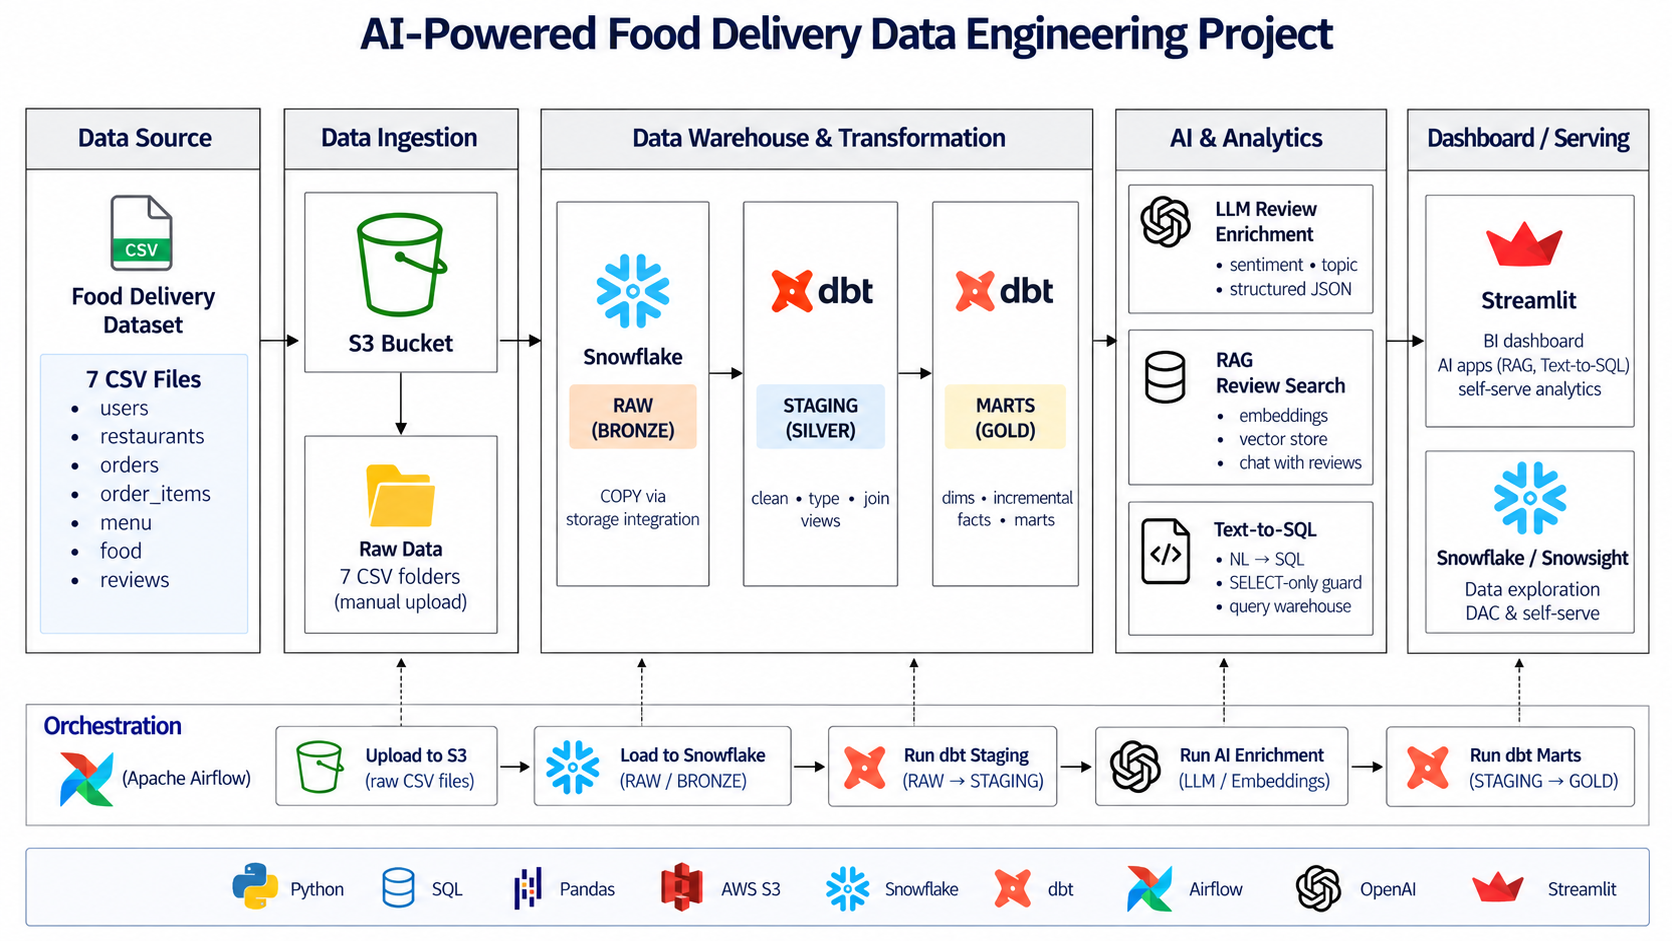
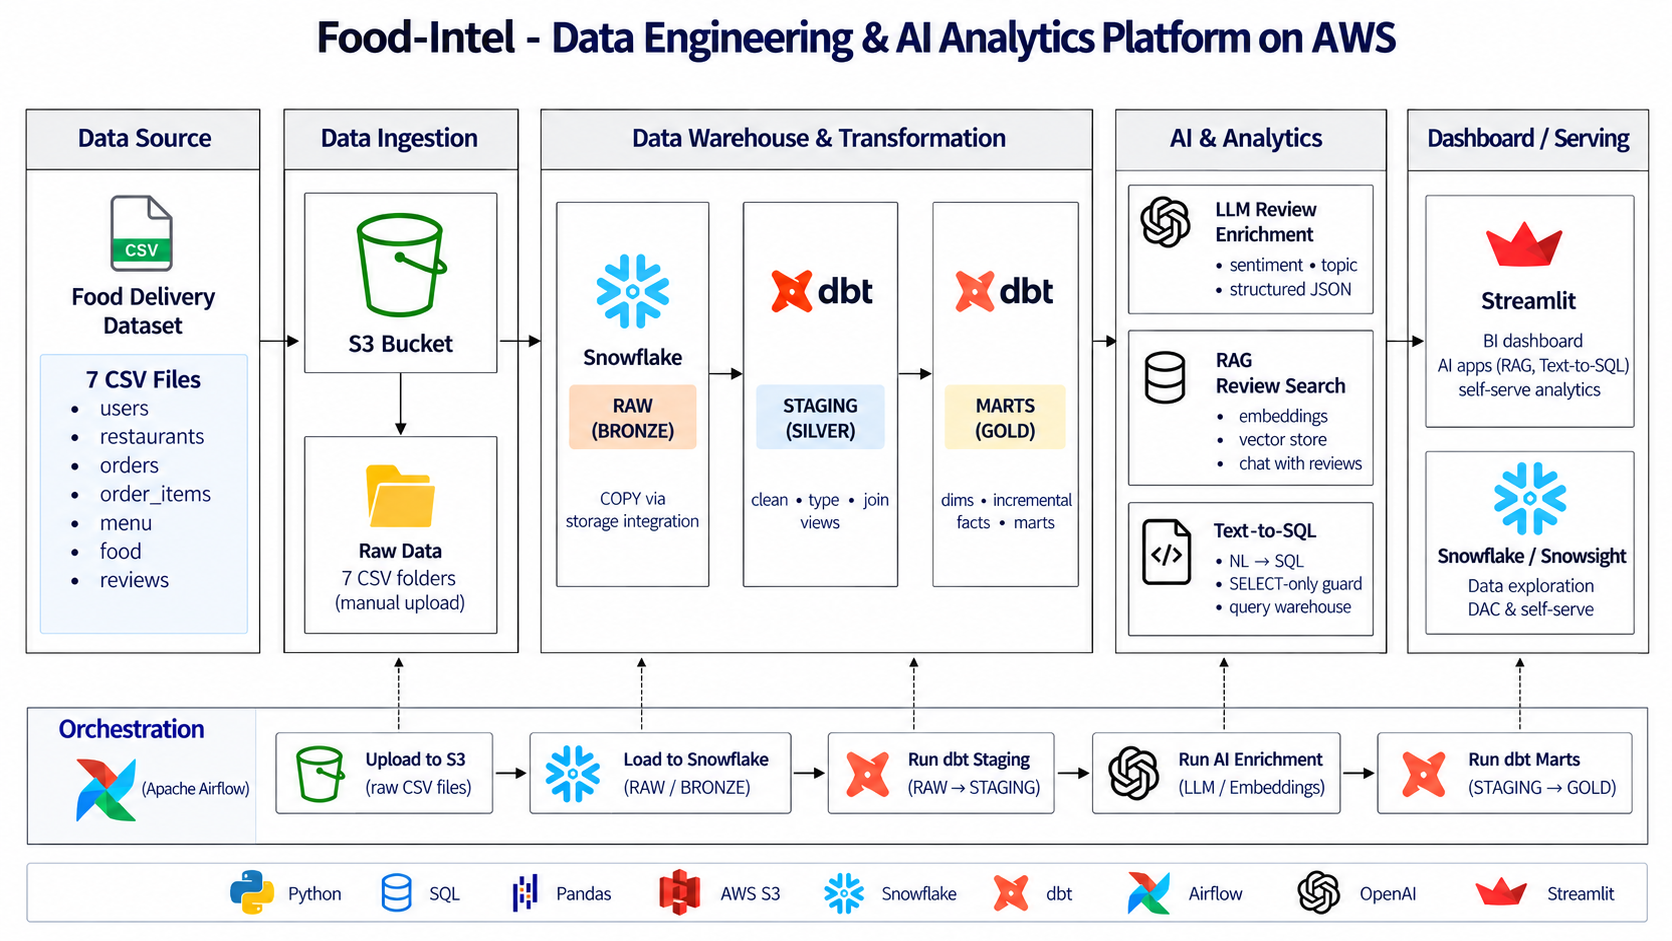
Updated Architecture diagram

diff --git a/README.md b/README.md
@@ -1,0 +1,315 @@
+# Food-Intel — Data Engineering & AI Analytics Platform
+
+> **From raw CSVs to an AI-powered warehouse** — a complete modern data stack built on a food-delivery dataset.
+
+![Architecture](Doc/Architecture.png)
+<!--  
+[![Python](https://img.shields.io/badge/Python-3.11+-blue?logo=python)](https://python.org)
+[![dbt](https://img.shields.io/badge/dbt-Snowflake-orange?logo=dbt)](https://getdbt.com)
+[![Airflow](https://img.shields.io/badge/Airflow-3.0-darkgreen?logo=apacheairflow)](https://airflow.apache.org)
+[![Snowflake](https://img.shields.io/badge/Snowflake-Data%20Warehouse-29B5E8?logo=snowflake)](https://snowflake.com)
+[![OpenAI](https://img.shields.io/badge/OpenAI-GPT--4o--mini-412991?logo=openai)](https://openai.com)
+[![Streamlit](https://img.shields.io/badge/Streamlit-Apps-FF4B4B?logo=streamlit)](https://streamlit.io)
+-->
+---
+
+## What This Project Builds
+
+An end-to-end batch data pipeline that takes 7 raw CSV files through a full modern data stack:
+
+```
+Food-Delivery CSVs → Amazon S3 → Snowflake (Bronze→Silver→Gold) → dbt → Airflow → AI Layer → Streamlit
+```
+
+**Three AI capabilities on top of the warehouse:**
+- 🤖 **LLM Enrichment** — GPT-4o-mini classifies every review into sentiment + topic + urgency flag
+- 💬 **RAG Chat** — Ask questions, get answers grounded in real customer reviews
+- 🔍 **Text-to-SQL** — Type plain English, get live Snowflake query results
+
+---
+
+## Tech Stack
+
+| Layer | Tool |
+|-------|------|
+| Storage | Amazon S3 (ap-south-1) |
+| Warehouse | Snowflake |
+| Transformation | dbt (dbt-snowflake) |
+| Orchestration | Apache Airflow 3 on Docker |
+| AI / LLM | OpenAI GPT-4o-mini + text-embedding-3-small |
+| Serving | Streamlit |
+| Language | Python 3.11+ |
+
+---
+
+## Dataset
+
+| Table | Description | Volume |
+|-------|-------------|--------|
+| orders | Core fact — status, amounts, times | 10M rows |
+| order_items | Line items per order | 23M rows |
+| reviews | Free-text comments + ratings | 300K rows |
+| restaurants | Who sells — cuisine, city, rating | Dimension |
+| users | Who orders — city, signup date | Dimension |
+| food | Menu items — veg/non-veg | Dimension |
+| menu | Restaurant × food × price | Dimension |
+
+> 📦 Dataset is not committed to this repo (2.3 GB). Download from the [Google Drive folder](#) and place files under `Data/`.
+
+---
+
+## Architecture
+
+### Medallion Layers
+
+```
+RAW (Bronze)     — All columns as TEXT, append-only, tolerant COPY INTO
+STAGING (Silver) — Typed + cleaned dbt views (TRY_TO_DECIMAL, NULLIF, INITCAP)
+MARTS (Gold)     — Dims, incremental facts, aggregate marts
+AI               — LLM-enriched review table (REVIEW_ENRICHED)
+```
+
+### Airflow DAG — 4 Tasks
+
+```
+reload_raw → dbt_build_core → enrich_reviews → dbt_build_ai
+```
+
+| Task | What it does |
+|------|-------------|
+| `reload_raw` | COPY INTO all 7 RAW tables from S3 |
+| `dbt_build_core` | Build + test all models except AI tag |
+| `enrich_reviews` | Call GPT-4o-mini on un-enriched reviews |
+| `dbt_build_ai` | Build AI marts on enriched data |
+
+---
+
+## Repository Structure
+
+```
+food-intel-data-platform/
+├── dags/
+│   └── zomato_batch.py          # Airflow DAG (4 tasks, daily)
+├── dbt_project/
+│   ├── models/
+│   │   ├── staging/             # 7 staging views (Silver)
+│   │   ├── marts/
+│   │   │   ├── dimensions/      # dim_restaurants, dim_users, dim_food, dim_date
+│   │   │   ├── facts/           # fct_orders (incremental), fct_order_items
+│   │   │   └── aggregates/      # 6 business marts
+│   │   └── ai/                  # mart_review_insights (tag:ai)
+│   └── snapshots/               # SCD2 on restaurant ratings
+├── ai/
+│   ├── enrich_reviews.py        # LLM enrichment → REVIEW_ENRICHED
+│   ├── rag_chat.py              # RAG chat with reviews
+│   └── text_to_sql.py           # Natural language → Snowflake SQL
+├── streamlit/
+│   ├── app_dashboard.py         # BI dashboard
+│   ├── app_rag_chat.py          # RAG chat app
+│   └── app_text_to_sql.py       # Text-to-SQL app
+├── infra/
+│   ├── snowflake_setup.sql      # One-time Snowflake setup
+│   └── iam_policy.json          # AWS IAM policy
+├── Doc/
+│   └── Architecture.png
+├── docker-compose.yml
+├── Dockerfile.airflow
+├── .env.example
+└── README.md
+```
+
+---
+
+## Setup Guide
+
+### Prerequisites
+
+- AWS account with S3 access
+- Snowflake account (free trial works)
+- Docker Desktop installed
+- Python 3.11+
+- OpenAI API key
+
+---
+
+### Step 1 — Clone the repo
+
+```bash
+git clone https://github.com/<your-username>/food-intel-data-platform.git
+cd food-intel-data-platform
+```
+
+---
+
+### Step 2 — Set up environment variables
+
+```bash
+cp .env.example .env
+```
+
+Edit `.env` and fill in your values:
+
+```env
+# Snowflake
+SNOWFLAKE_ACCOUNT=your_account
+SNOWFLAKE_USER=your_user
+SNOWFLAKE_PASSWORD=your_password
+SNOWFLAKE_DATABASE=ZOMATO
+SNOWFLAKE_WAREHOUSE=FOOD_INTEL_WH
+SNOWFLAKE_ROLE=DBT_ROLE
+
+# AWS
+AWS_DEFAULT_REGION=ap-south-1
+S3_BUCKET=food-intel-datalake
+
+# OpenAI
+OPENAI_API_KEY=sk-...
+```
+
+---
+
+### Step 3 — Set up Snowflake
+
+Run these SQL files **in order** in Snowsight (Snowflake UI):
+
+```
+infra/snowflake_setup.sql     # Creates warehouse, database, schemas, roles
+```
+
+---
+
+### Step 4 — Upload data to S3
+
+```bash
+# Upload all CSVs to S3
+aws s3 sync Data/ s3://food-intel-datalake/raw/
+```
+
+---
+
+### Step 5 — Set up dbt
+
+```bash
+cd dbt_project
+pip install dbt-snowflake
+cp profiles.yml.example ~/.dbt/profiles.yml
+# Edit ~/.dbt/profiles.yml with your Snowflake credentials
+
+# Test connection
+dbt debug
+
+# Run all models
+dbt build
+```
+
+---
+
+### Step 6 — Start Airflow with Docker
+
+```bash
+# From project root
+docker compose up --build -d
+
+# Open Airflow UI
+# http://localhost:8080
+# Username: airflow | Password: airflow
+```
+
+Add the Snowflake connection in Airflow UI:
+- **Conn ID:** `snowflake_default`
+- **Conn Type:** Snowflake
+- Fill in your account, user, password, database, warehouse, role
+
+Trigger the DAG: `zomato_batch`
+
+---
+
+### Step 7 — Run AI enrichment manually (optional)
+
+```bash
+cd ai
+pip install -r requirements.txt
+python enrich_reviews.py --sample-n 500
+```
+
+---
+
+### Step 8 — Launch Streamlit apps
+
+```bash
+cd streamlit
+pip install -r requirements.txt
+
+# BI Dashboard
+streamlit run app_dashboard.py
+
+# RAG Chat (open new terminal)
+streamlit run app_rag_chat.py
+
+# Text-to-SQL (open new terminal)
+streamlit run app_text_to_sql.py
+```
+
+---
+
+## dbt Models
+
+### Run commands
+
+```bash
+# Build everything
+dbt build
+
+# Build only staging
+dbt build --select staging
+
+# Build only AI models
+dbt build --select tag:ai
+
+# Full refresh incremental models
+dbt build --full-refresh --select fct_orders
+
+# Run tests only
+dbt test
+
+# Generate + serve docs
+dbt docs generate && dbt docs serve
+```
+
+---
+
+## What Makes This Unique
+
+| Feature | This Project | Reference Project |
+|---------|-------------|-------------------|
+| LLM enrichment fields | sentiment + topic + **urgency_flag** | sentiment + topic only |
+| Extra Gold mart | **mart_top_items_by_city** | Not present |
+| SCD2 snapshot | **Restaurant ratings history** | Not present |
+| AWS region | **ap-south-1 (Mumbai)** | us-east-1 |
+| Airflow version | **Airflow 3** | Airflow 2.9 |
+
+---
+
+## Security
+
+- ✅ No AWS keys stored — keyless S3 access via IAM role trust
+- ✅ dbt runs as `DBT_ROLE`, not ACCOUNTADMIN
+- ✅ Text-to-SQL uses SELECT-only guard + DBT_ROLE (read-only)
+- ✅ All secrets in environment variables, never in code
+- ✅ `.env` is in `.gitignore`
+
+---
+
+## Skills Demonstrated
+
+`AWS S3` · `Snowflake` · `dbt` · `Apache Airflow` · `Docker` · `OpenAI API` · `RAG` · `Text-to-SQL` · `Medallion Architecture` · `Incremental Models` · `SCD2 Snapshots` · `ELT Pipeline` · `Streamlit` · `Python` · `SQL`
+
+---
+
+## License
+
+MIT License — free to use, modify, and share.
+
+---
+
+*Built as a portfolio data engineering project. Inspired by the Zomato AI Data Engineering curriculum.*
